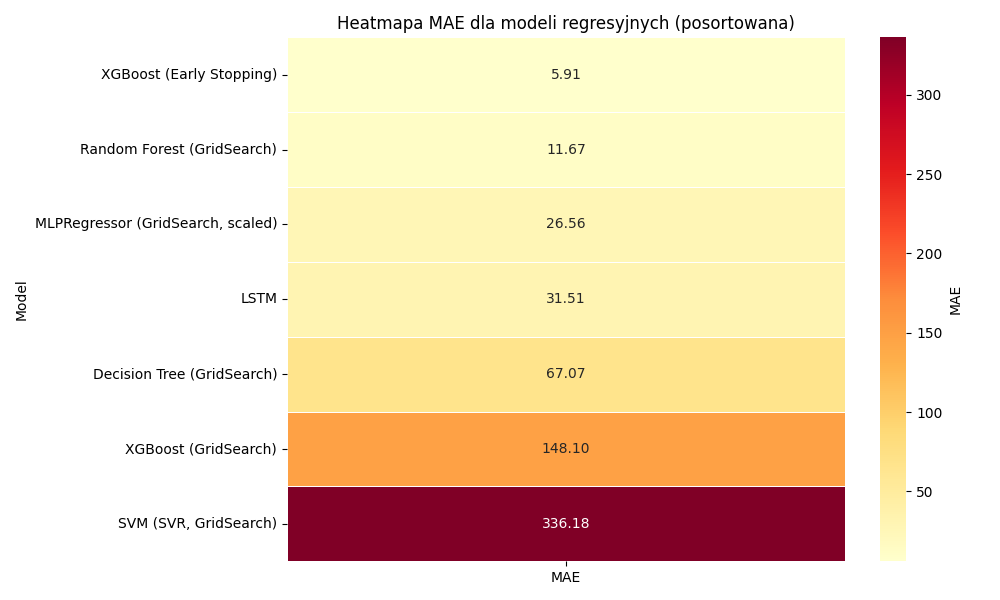
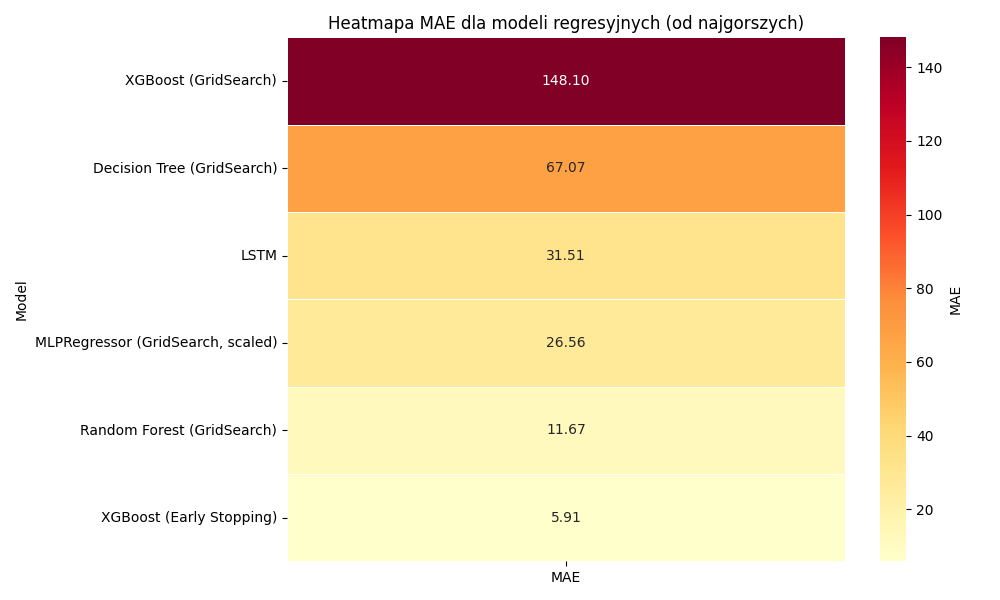
Add feature engineering analysis

diff --git a/main.py b/main.py
@@ -15,63 +15,116 @@ import time
 import matplotlib.pyplot as plt
 import seaborn as sns
 import os
+from sklearn.metrics import mean_absolute_error, mean_squared_error
+from PIL import Image
+import numpy as np
+from src.utils import plot_error_heatmap
 
 X_train, X_test, y_train, y_test, dates_test = prepare_data()
 results = []
 model_names = []
 mae_values = []
 
-# Decision Tree
+# --- Decision Tree ---
 result_dt, best_model_dt = train_decision_tree(X_train, y_train)
-results.append(result_dt)
 y_pred_dt = predict_decision_tree(best_model_dt, X_test)
+mae_dt = mean_absolute_error(y_test, y_pred_dt)
+mse_dt = mean_squared_error(y_test, y_pred_dt)
+rmse_dt = np.sqrt(mse_dt)
+results.append({
+    'model': 'Decision Tree (GridSearch)',
+    'MAE mean': mae_dt,
+    'MSE': mse_dt,
+    'RMSE': rmse_dt,
+    'Best params': result_dt['Best params']
+})
 plot_predictions(y_test, y_pred_dt, dates_test, model_name="Decision Tree", save_path="results/decision_tree_plot.png")
-model_names.append("Decision Tree (GridSearch)")
-mae_values.append(result_dt['MAE mean'])
 
-# Random Forest
+# --- Random Forest ---
 result_rf, best_model_rf = train_random_forest(X_train, y_train)
-results.append(result_rf)
 y_pred_rf = predict_random_forest(best_model_rf, X_test)
+mae_rf = mean_absolute_error(y_test, y_pred_rf)
+mse_rf = mean_squared_error(y_test, y_pred_rf)
+rmse_rf = np.sqrt(mse_rf)
+results.append({
+    'model': 'Random Forest (GridSearch)',
+    'MAE mean': mae_rf,
+    'MSE': mse_rf,
+    'RMSE': rmse_rf,
+    'Best params': result_rf['Best params']
+})
 plot_predictions(y_test, y_pred_rf, dates_test, model_name="Random Forest", save_path="results/random_forest_plot.png")
-model_names.append("Random Forest (GridSearch)")
-mae_values.append(result_rf['MAE mean'])
 
-# SVM
+'''# Tylko Random Forest z RandomizedSearch
+result_rf_rand, best_model_rf_rand = train_random_forest_randomized(X_train, y_train)
+results.append(result_rf_rand)
+y_pred_rf_rand = predict_rf_randomized(best_model_rf_rand, X_test)
+plot_predictions(y_test, y_pred_rf_rand, dates_test, model_name="Random Forest (Randomized)", save_path="results/random_forest_randomized_plot.png")
+
+# --- SVM ---
 result_svm, best_model_svm = train_svm(X_train, y_train)
-results.append(result_svm)
 y_pred_svm = predict_svm(best_model_svm, X_test)
-plot_predictions(y_test, y_pred_svm, dates_test, model_name="SVM", save_path="results/svm_plot.png")
-model_names.append("SVM (SVR, GridSearch)")
-mae_values.append(result_svm['MAE mean'])
+mae_svm = mean_absolute_error(y_test, y_pred_svm)
+mse_svm = mean_squared_error(y_test, y_pred_svm)
+rmse_svm = np.sqrt(mse_svm)
+results.append({
+    'model': 'SVM (SVR, GridSearch)',
+    'MAE mean': mae_svm,
+    'MSE': mse_svm,
+    'RMSE': rmse_svm,
+    'Best params': result_svm['Best params']
+})
+plot_predictions(y_test, y_pred_svm, dates_test, model_name="SVM", save_path="results/svm_plot.png")'''
 
-# XGBoost
+# --- XGBoost ---
 result_xgb, best_model_xgb = train_xgboost(X_train, y_train)
-results.append(result_xgb)
 y_pred_xgb = predict_xgboost(best_model_xgb, X_test)
+mae_xgb = mean_absolute_error(y_test, y_pred_xgb)
+mse_xgb = mean_squared_error(y_test, y_pred_xgb)
+rmse_xgb = np.sqrt(mse_xgb)
+results.append({
+    'model': 'XGBoost (GridSearch)',
+    'MAE mean': mae_xgb,
+    'MSE': mse_xgb,
+    'RMSE': rmse_xgb,
+    'Best params': result_xgb['Best params']
+})
 plot_predictions(y_test, y_pred_xgb, dates_test, model_name="XGBoost", save_path="results/xgboost_plot.png")
-model_names.append("XGBoost (GridSearch)")
-mae_values.append(result_xgb['MAE mean'])
 
-# XGBoost Early Stopping
+# --- XGBoost Early Stopping ---
 result_xgb_es, best_model_xgb_es, y_pred_xgb_es = train_xgboost_custom(X_train, X_test, y_train, y_test)
-results.append(result_xgb_es)
+mae_xgb_es = mean_absolute_error(y_test, y_pred_xgb_es)
+mse_xgb_es = mean_squared_error(y_test, y_pred_xgb_es)
+rmse_xgb_es = np.sqrt(mse_xgb_es)
+results.append({
+    'model': 'XGBoost (Early Stopping)',
+    'MAE mean': mae_xgb_es,
+    'MSE': mse_xgb_es,
+    'RMSE': rmse_xgb_es,
+    'Best params': result_xgb_es['Best params']
+})
 plot_predictions(y_test, y_pred_xgb_es, dates_test, model_name="XGBoost (Early Stop)", save_path="results/xgboost_early_plot.png")
-model_names.append("XGBoost (Early Stopping)")
-mae_values.append(result_xgb_es['MAE mean'])
 
-# MLP
+# --- MLP ---
 start_time = time.time()
 result_mlp, best_model_mlp = train_mlp(X_train, y_train)
-results.append(result_mlp)
 y_pred_mlp = predict_mlp(best_model_mlp, X_test)
-plot_predictions(y_test, y_pred_mlp, dates_test, model_name="MLPRegressor", save_path="results/mlp_plot.png")
-model_names.append("MLPRegressor (GridSearch, scaled)")
-mae_values.append(result_mlp['MAE mean'])
 end_time = time.time()
+mae_mlp = mean_absolute_error(y_test, y_pred_mlp)
+mse_mlp = mean_squared_error(y_test, y_pred_mlp)
+rmse_mlp = np.sqrt(mse_mlp)
+results.append({
+    'model': 'MLPRegressor (GridSearch, scaled)',
+    'MAE mean': mae_mlp,
+    'MSE': mse_mlp,
+    'RMSE': rmse_mlp,
+    'Best params': result_mlp['Best params']
+})
+plot_predictions(y_test, y_pred_mlp, dates_test, model_name="MLPRegressor", save_path="results/mlp_plot.png")
 print(f"Czas wykonania MLP: {end_time - start_time:.2f} sekund")
 
-# LSTM
+# --- LSTM ---
+from src.data_lstm import create_lstm_data
 X_train, X_test, y_train, y_test, dates_test, scaler_y = create_lstm_data()
 start_time = time.time()
 model_lstm, history_lstm = train_lstm(X_train, y_train, X_test, y_test, epochs=50, batch_size=32)
@@ -80,15 +133,18 @@ y_pred_lstm = scaler_y.inverse_transform(y_pred_lstm_scaled.reshape(-1, 1)).flat
 y_test_inv = scaler_y.inverse_transform(y_test.reshape(-1, 1)).flatten()
 end_time = time.time()
 mae_lstm = mean_absolute_error(y_test_inv, y_pred_lstm)
+mse_lstm = mean_squared_error(y_test_inv, y_pred_lstm)
+rmse_lstm = np.sqrt(mse_lstm)
 results.append({
     'model': 'LSTM',
     'MAE mean': mae_lstm,
+    'MSE': mse_lstm,
+    'RMSE': rmse_lstm,
     'Best params': 'custom (LSTM(64), dropout=0.2, adam)'
 })
-model_names.append("LSTM")
-mae_values.append(mae_lstm)
 plot_predictions(y_test_inv, y_pred_lstm, dates_test, model_name="LSTM", save_path="results/lstm_plot.png")
 print(f"Czas wykonania LSTM: {end_time - start_time:.2f} sekund")
+
 
 # Zapis tabeli wyników
 results_df = pd.DataFrame(results)
@@ -98,13 +154,26 @@ print(results_df)
 # Zbiorczy wykres PNG
 join_prediction_plots()
 
-# Heatmapa MAE na podstawie wyników
-df_mae = pd.DataFrame({"Model": model_names, "MAE": mae_values}).set_index("Model").sort_values("MAE")
+
+# Automatyczne wyświetlenie heatmapy
+Image.open("results/error_metrics_heatmap.png").show()
+plot_error_heatmap(results_df)
+
+importances = best_model_rf.feature_importances_
+feature_names = [
+    "Open", "High", "Low", "Volume", 
+    "return", "rolling_mean_5", "rolling_std_5", 
+    "high_low_diff", "close_open_ratio", "days_since_max"
+]
+
+sorted_idx = importances.argsort()
+sorted_features = [feature_names[i] for i in sorted_idx]
+sorted_importances = importances[sorted_idx]
+
 plt.figure(figsize=(10, 6))
-sns.heatmap(df_mae, annot=True, fmt=".2f", cmap="YlOrRd", linewidths=0.5, cbar_kws={'label': 'MAE'})
-plt.title('Heatmapa MAE dla modeli regresyjnych (posortowana)')
-plt.xticks(rotation=0)
-plt.yticks(rotation=0)
+plt.barh(sorted_features, sorted_importances)
+plt.xlabel("Ważność cechy")
+plt.title("Random Forest – Feature Importances")
 plt.tight_layout()
-plt.savefig("results/models_mae_heatmap_sorted.png")
-plt.close()
+plt.savefig("results/feature_importance_rf.png")
+plt.show()

diff --git a/src/utils.py b/src/utils.py
@@ -1,22 +1,24 @@
 import matplotlib.pyplot as plt
 import os
 import pandas as pd
-from PIL import Image
+from PIL import Image, ImageDraw, ImageFont
 import matplotlib.dates as mdates
 import math
-
+import seaborn as sns
+import numpy as np
 
 def plot_predictions(y_true, y_pred, dates, model_name, save_path):
     plt.figure(figsize=(10, 5))
-    plt.plot(dates, y_true, label="Rzeczywiste", linewidth=2, color='blue')
-    plt.plot(dates, y_pred, label="Predykcja", linestyle='--', linewidth=2, color='orange')
+    sorted_data = sorted(zip(dates, y_true, y_pred), key=lambda x: x[0])
+    dates_sorted, y_true_sorted, y_pred_sorted = zip(*sorted_data)
+    plt.plot(dates_sorted, y_true_sorted, label="Rzeczywiste", linewidth=2, color='blue')
+    plt.plot(dates_sorted, y_pred_sorted, label="Predykcja", linestyle='--', linewidth=2, color='orange')
     plt.xlabel("Data")
     plt.ylabel("Cena zamknięcia")
     plt.title(f"{model_name} – rzeczywiste vs predykcja")
     plt.legend()
     plt.grid(True)
 
-    # Formatowanie daty
     plt.gca().xaxis.set_major_formatter(mdates.DateFormatter('%Y'))
     plt.gca().xaxis.set_major_locator(mdates.YearLocator(base=2))
     plt.xticks(rotation=45)
@@ -28,16 +30,23 @@ def plot_predictions(y_true, y_pred, dates, model_name, save_path):
 
 def join_prediction_plots(folder="results", output_path="results/all_models_preview.png"):
     files = [
-        "decision_tree_plot.png",
-        "random_forest_plot.png",
-        "svm_plot.png",
-        "xgboost_plot.png",
-        "xgboost_early_plot.png",
-        "mlp_plot.png",
-        "lstm_plot.png"
+        ("decision_tree_plot.png", "Decision Tree"),
+        ("random_forest_plot.png", "Random Forest"),
+        ("svm_plot.png", "SVM"),
+        ("xgboost_plot.png", "XGBoost"),
+        ("xgboost_early_plot.png", "XGBoost Early"),
+        ("mlp_plot.png", "MLP"),
+        ("lstm_plot.png", "LSTM")
     ]
 
-    images = [Image.open(os.path.join(folder, f)).resize((640, 360)) for f in files if os.path.exists(os.path.join(folder, f))]
+    images = []
+    labels = []
+    for f, label in files:
+        path = os.path.join(folder, f)
+        if os.path.exists(path):
+            img = Image.open(path).resize((640, 360))
+            images.append(img)
+            labels.append(label)
 
     if not images:
         print("[WARN] Nie znaleziono wykresów do połączenia.")
@@ -46,15 +55,44 @@ def join_prediction_plots(folder="results", output_path="results/all_models_prev
     cols = 3
     rows = math.ceil(len(images) / cols)
     thumb_width, thumb_height = images[0].size
-    collage_width = cols * thumb_width
-    collage_height = rows * thumb_height
+    font = ImageFont.load_default()
 
-    collage = Image.new('RGB', (collage_width, collage_height), (255, 255, 255))
+    # Zwiększ wysokość na podpisy
+    labeled_height = thumb_height + 30
+    collage = Image.new('RGB', (cols * thumb_width, rows * labeled_height), (255, 255, 255))
 
-    for idx, im in enumerate(images):
-        x_offset = (idx % cols) * thumb_width
-        y_offset = (idx // cols) * thumb_height
-        collage.paste(im, (x_offset, y_offset))
+    for idx, img in enumerate(images):
+        x = (idx % cols) * thumb_width
+        y = (idx // cols) * labeled_height
+        collage.paste(img, (x, y))
+
+        draw = ImageDraw.Draw(collage)
+        bbox = draw.textbbox((0, 0), labels[idx], font=font)
+        text_w, text_h = bbox[2] - bbox[0], bbox[3] - bbox[1]
+        draw.text(
+            (x + (thumb_width - text_w) // 2, y + thumb_height + 5),
+            labels[idx], fill=(0, 0, 0), font=font
+        )
 
     collage.save(output_path)
     print(f"[INFO] Zapisano zbiorczy wykres do: {output_path}")
+
+
+def plot_error_heatmap(results_df, save_path="results/error_metrics_heatmap.png"):
+        if not {'model', 'MAE mean', 'MSE', 'RMSE'}.issubset(results_df.columns):
+            print("[WARN] Nie znaleziono pełnych danych do heatmapy.")
+            return
+
+        df_metrics = results_df[['model', 'MAE mean', 'MSE', 'RMSE']].copy()
+        df_metrics.columns = ['Model', 'MAE', 'MSE', 'RMSE']
+        df_metrics = df_metrics.sort_values(by='MAE', ascending=False).reset_index(drop=True)
+        df_metrics.set_index('Model', inplace=True)
+
+        # Skala logarytmiczna kolorów, wartości nadal czytelne
+        log_df = np.log1p(df_metrics)
+        plt.figure(figsize=(12, 6))
+        sns.heatmap(log_df, annot=df_metrics.round(2), fmt='', cmap="YlOrRd", linewidths=0.5, cbar_kws={'label': 'log(1 + error)'})
+        plt.title("Heatmapa MAE, MSE i RMSE (posortowana)")
+        plt.tight_layout()
+        plt.savefig(save_path)
+        plt.close()

diff --git a/src/models/xgboost.py b/src/models/xgboost.py
@@ -9,10 +9,10 @@ def train_xgboost(X_train, y_train):
     start_time = time.time()
 
     param_grid = {
-    'n_estimators': [1000, 3000, 5000],         
-    'learning_rate': [0.001, 0.0025, 0.005],    
-    'max_depth': [3, 5, 7],                     
-    'subsample': [0.8, 1.0],                    
+    'n_estimators': [1000],         
+    'learning_rate': [0.001],    
+    'max_depth': [3],                     
+    'subsample': [0.8],                    
     'colsample_bytree': [0.8, 1.0]              
 
 
